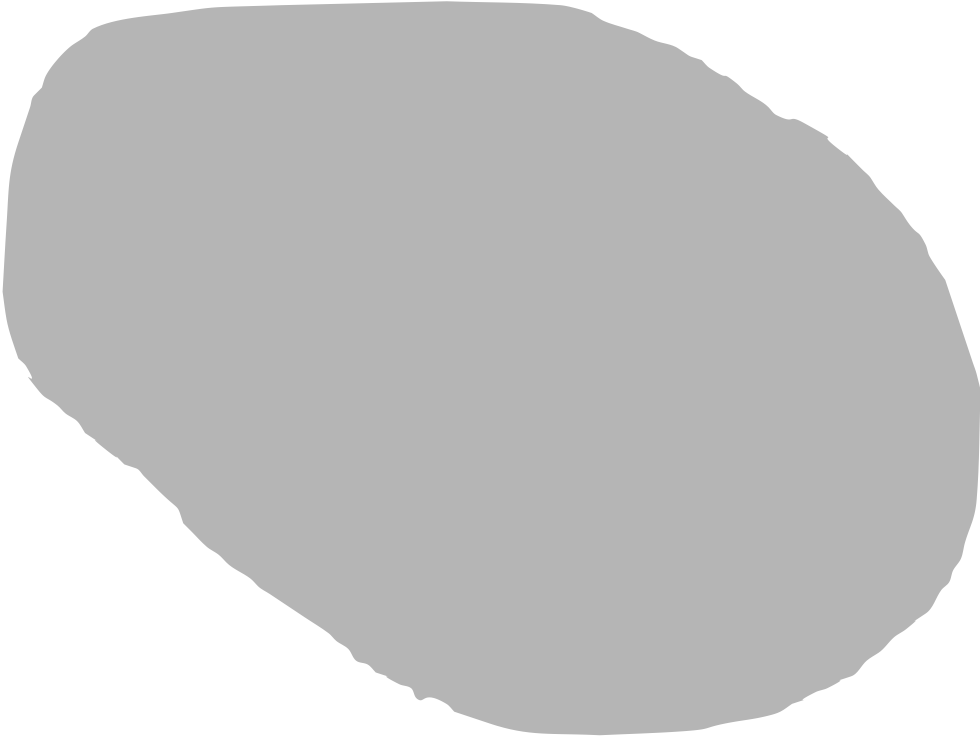
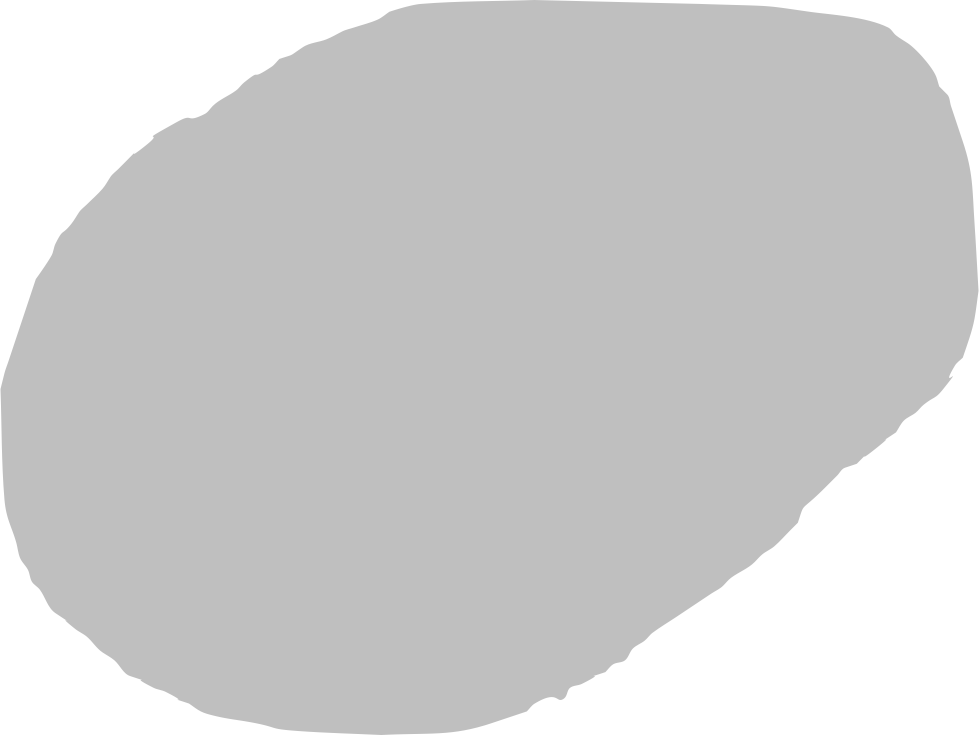
updated scotoma for SPOT04

Changed region(s): [[0.0, 0.0, 1.0, 0.9986]]

diff --git a/PRL Induction procedures/utilities/CheckTrackerpixx.m b/PRL Induction procedures/utilities/CheckTrackerpixx.m
@@ -55,7 +55,8 @@ switch EyetrackerType
         SummaryData(3) = newpupil_maj; %CurEyelinkEvt.pa(eye_used+1);
         SummaryData(4) = -1; % need to compute velocity outside this function
         if datapixxtime==1
-            SummaryData(5) = Datapixx('GetTime');
+                             Datapixx('RegWrRd');
+SummaryData(5) = Datapixx('GetTime');
         else
             SummaryData(5) = GetSecs;
         end
